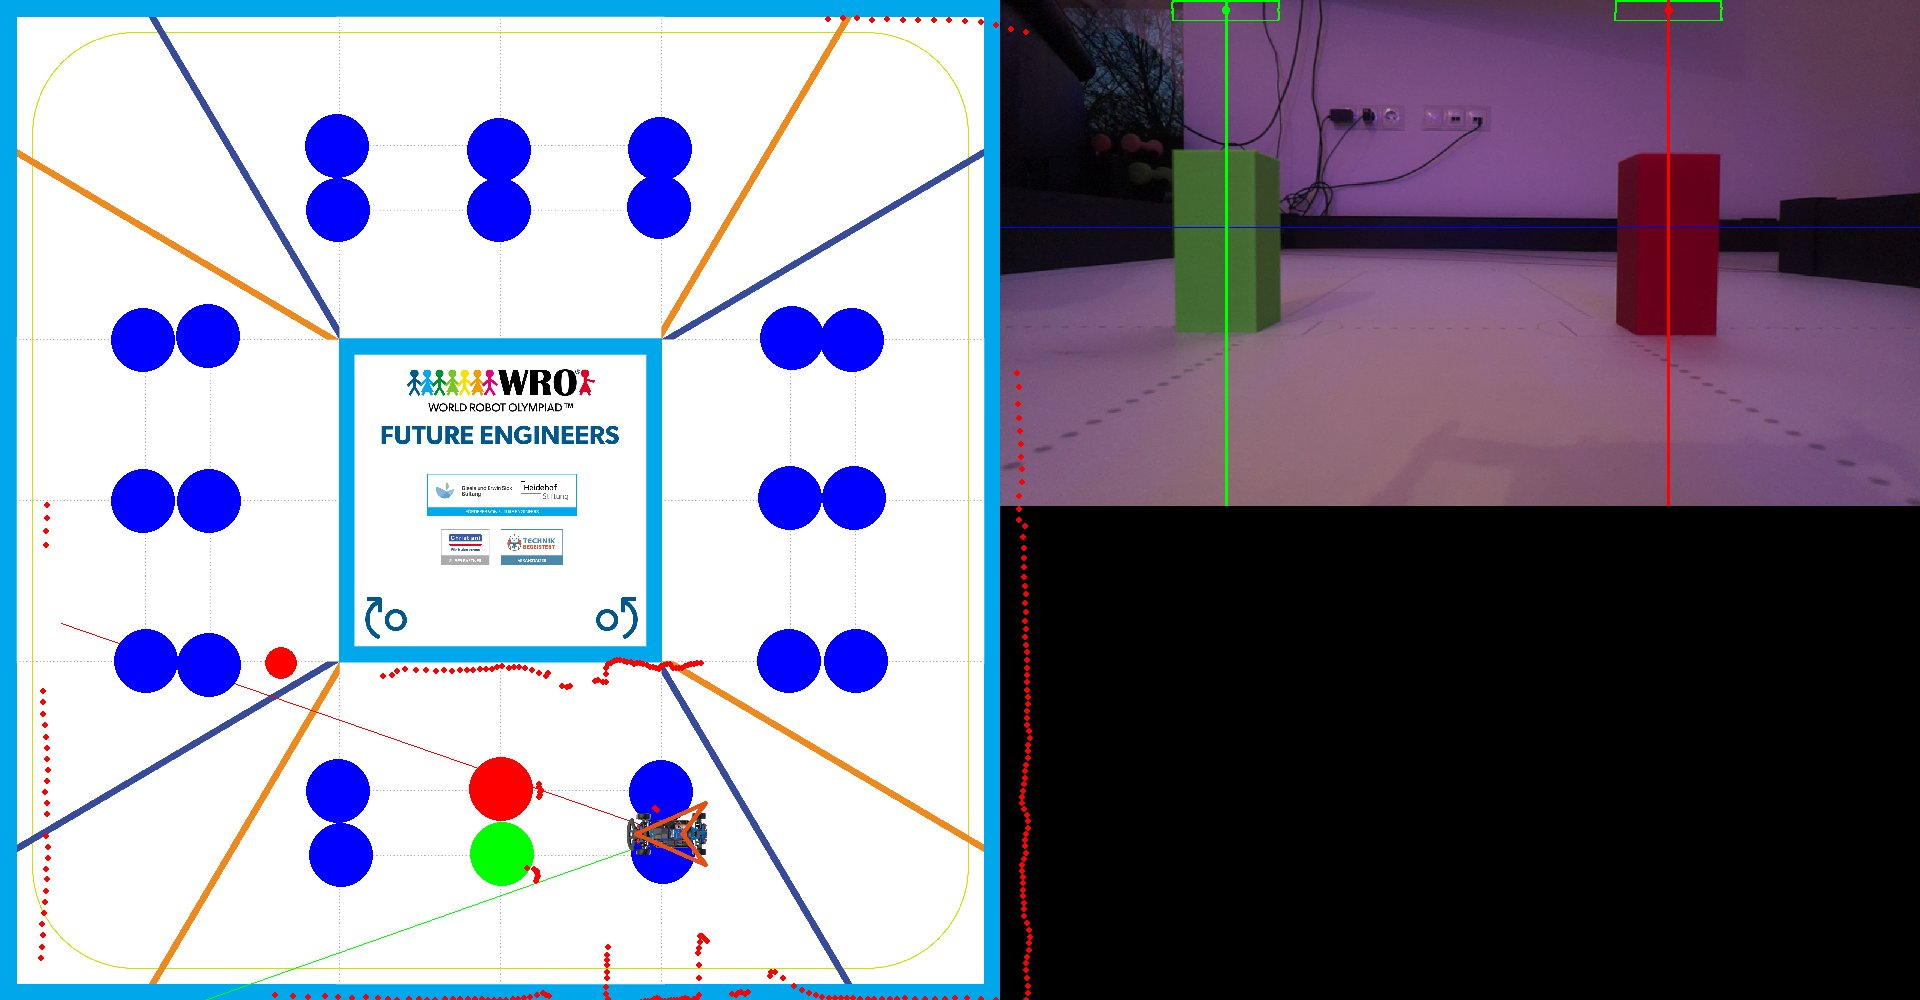
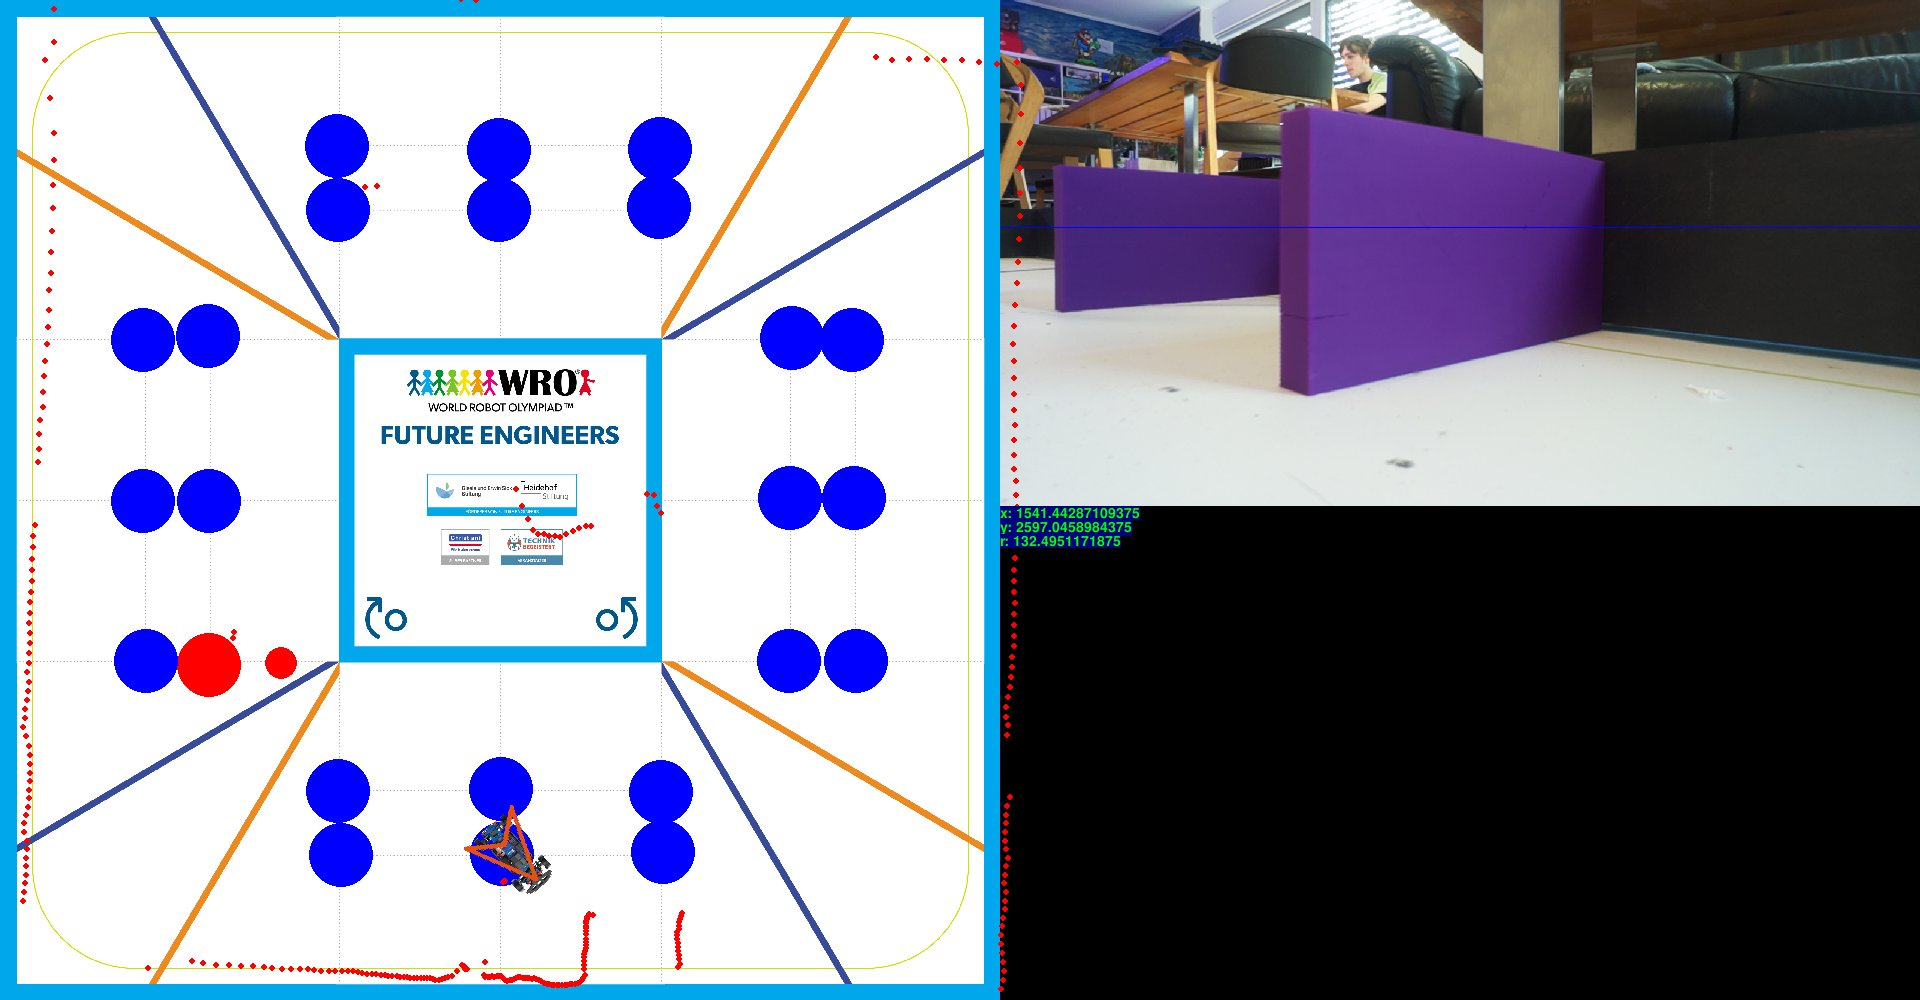
repositon 3

diff --git a/src/slam.py b/src/slam.py
@@ -68,7 +68,6 @@ class Slam:
         
         self.xpos = 0
         self.ypos = 0
-        self.angleStart = 0
         self.speed = 0
         i2c = board.I2C()
         self.sensor = adafruit_bno055.BNO055_I2C(i2c)
@@ -116,41 +115,42 @@ class Slam:
         average = average / scans
 
         if (average > 1870) and (average < 1970):
-            self.angleStart = 0
             self.direction = self.CW
-            self.setPostion(average, 3000 - self.scan[90]) 
+            self.setPostion(average, 3000 - self.scan[90],0) 
         if (average > 1345) and (average < 1450):
-            self.angleStart = 180
             self.direction = self.CCW
-            self.setPostion(self.scan[180], 3000 - self.scan[-90])
+            self.setPostion(self.scan[180], 3000 - self.scan[-90],180)
         if (average > 1550) and (average < 1660):
-            self.angleStart = 180
             self.direction = self.CCW
-            self.setPostion(self.scan[180], 3000 - self.scan[-90])
+            self.setPostion(self.scan[180], 3000 - self.scan[-90],180)
         if (average > 1040) and (average < 1200):
-            self.angleStart = 0
+            
             self.direction = self.CW
-            self.setPostion(average, 3000 - self.scan[90])
+            self.setPostion(average, 3000 - self.scan[90],0)
         
 
         if (self.scan[180] > 70) and (self.scan[180] < 170) and (self.scan[90] < 400):
-            self.angleStart = 0
             self.direction = self.CW
-            self.setPostion(2000 - self.scan[180], 3000 - self.scan[90])
+            self.setPostion(2000 - self.scan[180], 3000 - self.scan[90],0)
         elif (self.scan[180] > 70) and (self.scan[180] < 170) and (self.scan[-90] < 400):
-            self.angleStart = 180
             self.direction = self.CCW
-            self.setPostion(2000 - self.scan[0], 3000 - self.scan[90])
+            self.setPostion(2000 - self.scan[0], 3000 - self.scan[90],180)
 
         # 1870 - 1970
         # 1345 - 1450
         # 1550 - 1660
         # 1040 - 1200
-    def setPostion(self, x, y):
+    def setPostion(self, x, y,angle=-5000):
         myPosition = self.myOtos.getPosition()
         myPosition.x = -x / 1000
         myPosition.y = y / 1000
+        if (angle > -5000):
+            myPosition.h=angle
         self.myOtos.setPosition(myPosition)
+        self.xpos = x
+        self.ypos = y
+        self.lastXpos = x
+        self.lastYpos = y
         
     def update(self):
         myPosition = self.myOtos.getPosition()
@@ -181,7 +181,7 @@ class Slam:
         
         self.xpos = -myPosition.x * 1000
         self.ypos = myPosition.y * 1000
-        self.angle = myPosition.h + self.angleStart
+        self.angle = myPosition.h 
 
         # print("Euler angle: {}".format(sensor.euler[0]))
     def hindernisseErkennung(self, scan, toScan, camera):
@@ -228,50 +228,83 @@ class Slam:
                     else:
                         self.hindernisse[i].farbe = Hindernisse.RED
 
-    def reposition(self):
+    def calcualteScanAngel(self, angleToScan):
         average = 0
         scans = 0
-        angle = int(self.angle+0.5)
-        angle = 180-angle
-        for i in range (angle-5,angle+6):
-            if self.scan[i] > 0:
-                average = average + self.scan[i]
-                scans += 1
-        if scans > 0:
-            average = average / scans
+        scanAngle = int(angleToScan - self.angle + 0.5)
+        while scans <= 0:
+            for i in range (scanAngle-5,scanAngle+6):
+                if self.scan[i] > 0:
+                    average = average + self.scan[i]
+                    scans += 1
+        average = average / scans
+        print("scanAngle:", scanAngle, "average:", average, "average3:", 3000 - average)
+        return average
+    
+    
+    def reposition(self):
         
-        print(math.floor(self.ypos), math.floor(3000 - average), self.angle)
+        #print("X:", self.xpos, "Y:", self.ypos, "Angle:", self.angle, "average:", average, "average3:", 3000 - average)
         
-        if self.angle > -140 and self.angle > 140:                              # rechts/180
-            self.setPostion(average, self.xpos)
-        if self.angle > 130 and self.angle < 50:                                # unten/90
+        angleCheck = self.angle
+        while angleCheck > 180:
+            angleCheck -= 360
+        while angleCheck < -180:
+            angleCheck += 360
+        print("angleCheck:", angleCheck)
+        
+        if angleCheck < -140 or angleCheck > 140:                              # rechts/180
+            print("5")
+            average = self.calcualteScanAngel(0)
             self.setPostion(average, self.ypos)
-        if self.angle > -40 and self.angle < 40:                                # links/0
-            self.setPostion(3000 - average, self.xpos)
-        if self.angle > -130 and self.angle < -50:                              # oben/-90
+        if angleCheck < 130 and angleCheck > 50:                                # unten/90
+            print("6")
+            average = self.calcualteScanAngel(-90)
+            self.setPostion(self.xpos, average)
+        if angleCheck > -40 and angleCheck < 40:                                # links/0
+            print("7")
+            average = self.calcualteScanAngel(180)
             self.setPostion(3000 - average, self.ypos)
-        
+        if angleCheck > -130 and angleCheck < -50:                              # oben/-90
+            print("8")
+            average = self.calcualteScanAngel(90)
+            self.setPostion(self.xpos, 3000 - average)
+
         average = 0
         scans = 0
         
         if self.direction == self.CW:
-            average = 0
-            scans = 0
-            for i in range (angle-5-90,angle+6-90):
-                if self.scan[i] > 0:
-                    average = average + self.scan[i]
-                    scans += 1
-            if scans > 0:
-                average = average / scans
-        
+            if angleCheck < -140 or angleCheck > 140:                              # rechts/180
+                print("9")
+                average = self.calcualteScanAngel(-90)
+                self.setPostion(self.xpos, average)
+            if angleCheck < 130 and angleCheck > 50:                                # unten/90
+                print("10")
+                average = self.calcualteScanAngel(180)
+                self.setPostion(3000 - average, self.ypos)
+            if angleCheck > -40 and angleCheck < 40:                                # links/0
+                print("11")
+                average = self.calcualteScanAngel(90)
+                self.setPostion(self.xpos, 3000 - average)
+            if angleCheck > -130 and angleCheck < -50:                              # oben/-90
+                print("12")
+                average = self.calcualteScanAngel(0)
+                self.setPostion(average, self.ypos)
+
         if self.direction == self.CCW:
-            average = 0
-            scans = 0
-            for i in range (angle-5+90,angle+6+90):
-                if self.scan[i] > 0:
-                    average = average + self.scan[i]
-                    scans += 1
-            if scans > 0:
-                average = average / scans
-        
-#      print(average)
+            if angleCheck < -140 or angleCheck > 140:                              # rechts/180
+                print("1")
+                average = self.calcualteScanAngel(90)
+                self.setPostion(self.xpos, 3000 - average)
+            if angleCheck < 130 and angleCheck > 50:                                # unten/90
+                print("2")
+                average = self.calcualteScanAngel(0)
+                self.setPostion(average, self.ypos)
+            if angleCheck > -40 and angleCheck < 40:                                # links/0
+                print("3")
+                average = self.calcualteScanAngel(-90)
+                self.setPostion(self.xpos, average)
+            if angleCheck > -130 and angleCheck < -50:                              # oben/-90
+                print("4")
+                average = self.calcualteScanAngel(180)
+                self.setPostion(3000 - average, self.ypos)
